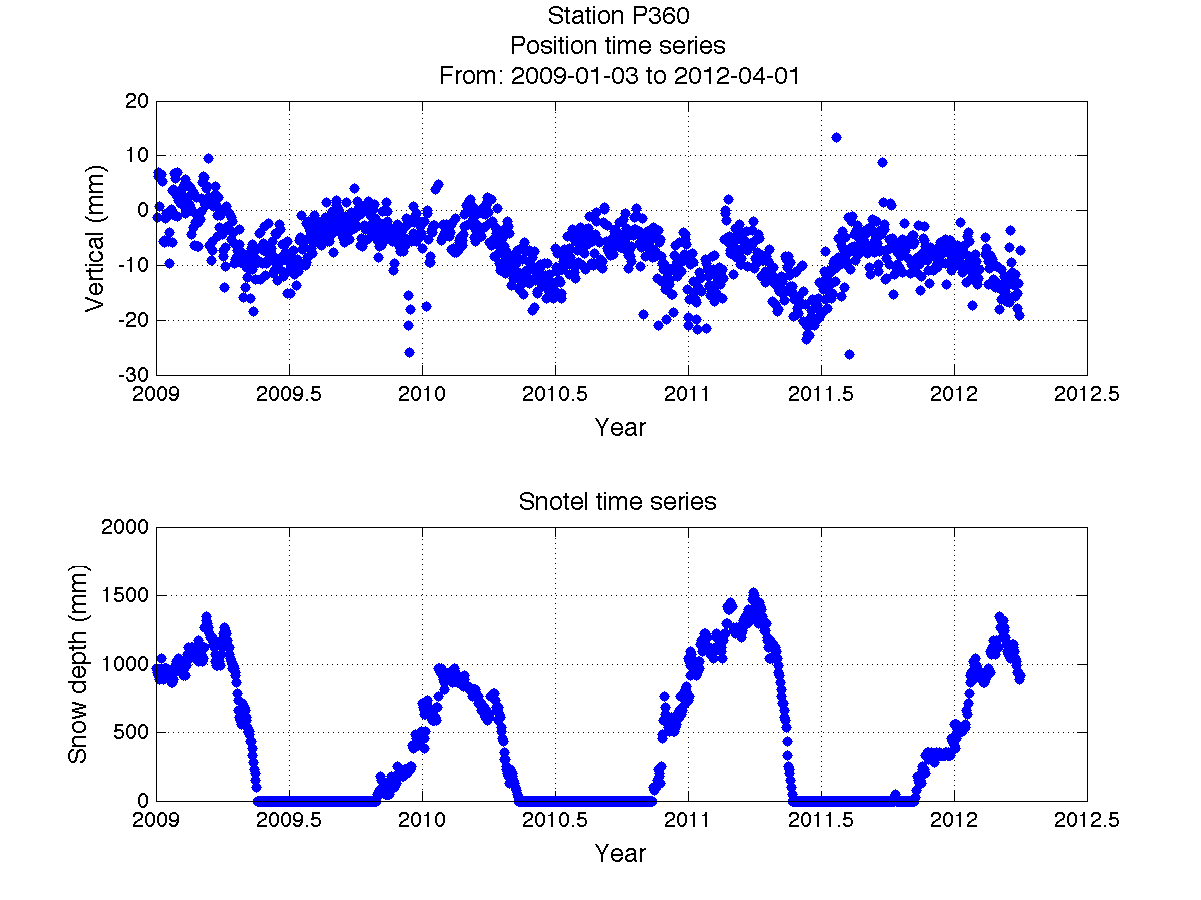
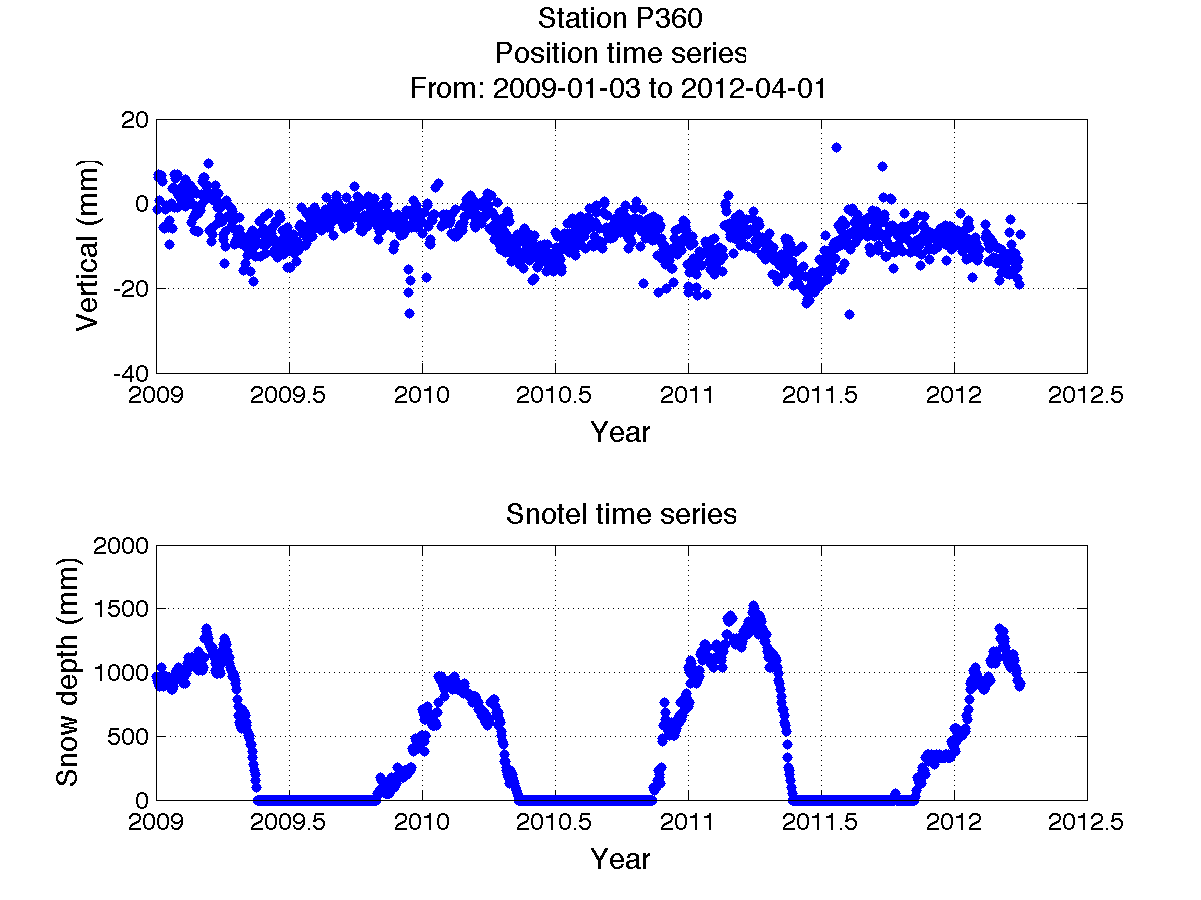
new plots

diff --git a/Code/MATLAB/TimeSeriesPlot.m b/Code/MATLAB/TimeSeriesPlot.m
@@ -1,5 +1,6 @@
 function [] = TimeSeriesPlot(filename,start_date,end_date)
 %% Create a plot from the position
+global fsize asize
 % Load data from data directory
 % Inputs
 % filename = 'filename.mat'
@@ -62,12 +63,13 @@ SerialEnd = datenum(end_date(1),end_date(2),end_date(3));
 % errorbar(dates_dec,soln(3,:),sig(3,:),'*');
 plot(dates_dec,soln(3,:),'.','markersize',16);
 % datetick('x','yyyy.dd');
-xlabel('Year','fontsize',12)
-ylabel('Vertical (mm)','fontsize',12)
+set(gca,'FontSize',asize)
+xlabel('Year','fontsize',fsize)
+ylabel('Vertical (mm)','fontsize',fsize)
 datestr_start = datestr(SerialDates(1),'yyyy-mm-dd');
 datestr_end = datestr(SerialDates(end),'yyyy-mm-dd');
 str = sprintf('Station %s\nPosition time series\nFrom: %s to %s',filename(1:4),datestr_start,datestr_end);
-title(str,'fontsize',12);
+title(str,'fontsize',fsize);
 grid on
 axis fill
 h = gcf;

diff --git a/Code/MATLAB/SnotelPlot.m b/Code/MATLAB/SnotelPlot.m
@@ -1,6 +1,6 @@
 function [] = SnotelPlot(sitename,start_date,end_date)
 
-
+global fsize asize
 str1 = sprintf('%s_2009.csv',sitename);
 str2 = sprintf('%s_2010.csv',sitename);
 str3 = sprintf('%s_2011.csv',sitename);
@@ -41,13 +41,14 @@ snow_data = snow_data(inds:inde,:);
 
 % plot data
 plot(dec_date,snow_data(:,5)*1000,'.','markersize',16);
+set(gca,'FontSize',asize)
 grid on
 axis fill
-ylabel('Snow depth (mm)','fontsize',12)
-xlabel('Year','fontsize',12)
+ylabel('Snow depth (mm)','fontsize',fsize)
+xlabel('Year','fontsize',fsize)
 % datestr_start = datestr(SerialDates(1),'yyyy-mm-dd');
 % datestr_end = datestr(SerialDates(end),'yyyy-mm-dd');
 % str = sprintf('Snotel time series for station',sitename);
-title('Snotel time series','fontsize',12);
+title('Snotel time series','fontsize',fsize);
 
 end

diff --git a/Code/MATLAB/TimeSeriesYearPlot.m b/Code/MATLAB/TimeSeriesYearPlot.m
@@ -1,4 +1,5 @@
 function [] = TimeSeriesYearPlot(filename)
+global fsize asize
 %% Create a plot from the position
 % Load data from data directory
 % Inputs
@@ -39,10 +40,11 @@ for i = 1 : length(years)
     
     %     errorbar(dec_dates_year{i,1},soln_year{i,1}(3,:),sig_year{i,1}(3,:),'Color',colors(i,:))
 end
-xlabel('Day of year','fontsize',12)
-ylabel('Vertical (mm)','fontsize',12)
+set(gca,'FontSize',asize)
+xlabel('Day of year','fontsize',fsize)
+ylabel('Vertical (mm)','fontsize',fsize)
 str = sprintf('Station %s\nVerical position variation vs. day of year\nFrom: 2009 to 2012',filename(1:4));
-title(str,'fontsize',12);
+title(str,'fontsize',fsize);
 legend('2009','2010','2011','2012')
 grid on
 end

diff --git a/Code/MATLAB/time_series_main.m b/Code/MATLAB/time_series_main.m
@@ -3,6 +3,9 @@
 clc; clear all; close all;
 
 %% AB33
+global fsize asize
+asize = 12;
+fsize = 14;
 sd = [2009,1,1];
 ed = [2012,4,1];
 figure
